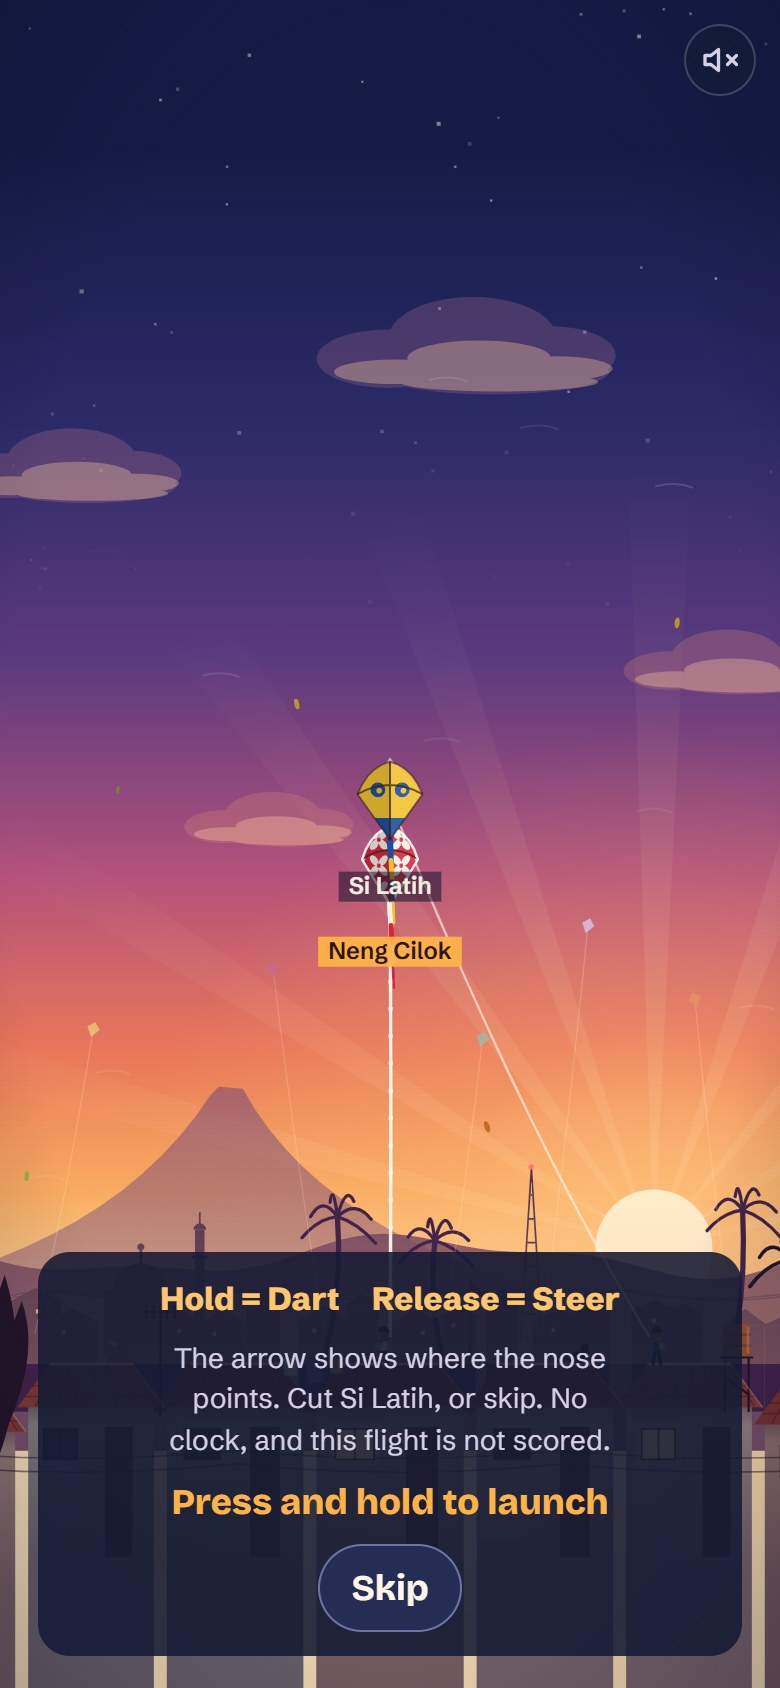
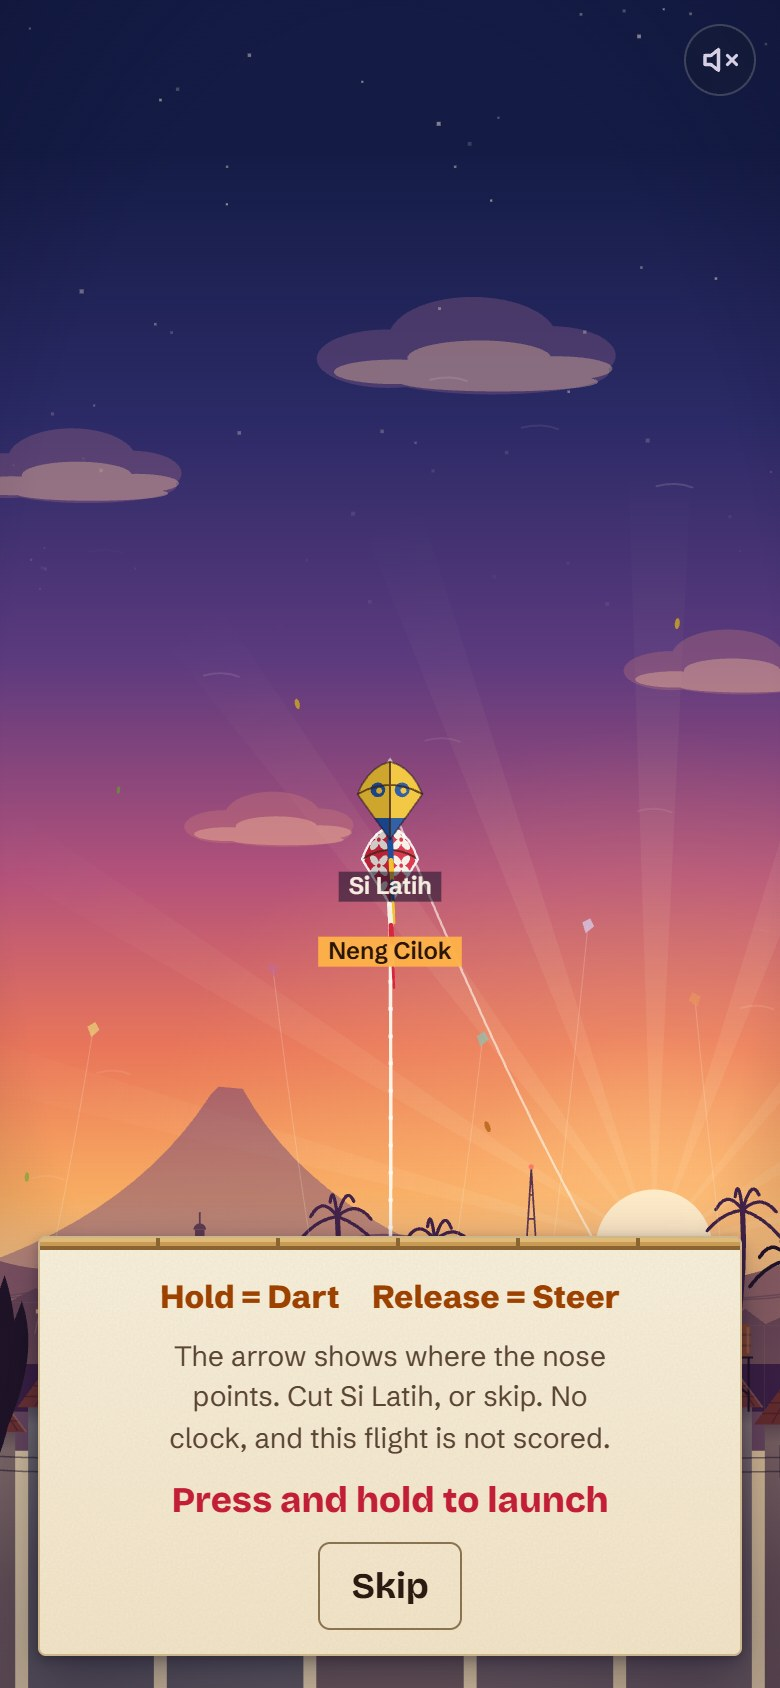
Retake the README screenshots in the kite-paper look.
Seven screenshots now show the paper panels, the contest and the kampung board as they are; the flight shot is unchanged because the flight screen did not change. The image descriptions match what is on screen, and Built for phones mentions the kite paper.

Changed region(s): [[0.0, 0.7085, 0.9846, 1.0]]

diff --git a/README.md b/README.md
@@ -5,11 +5,11 @@
 Fly a fighter kite with one finger. Cross a rival's string and saw through it with yours. One sky a day, the same for everyone, and yesterday's best flyer comes back as the boss.
 
 <p align="center">
-  <img src="docs/screenshots/01-feed.jpg" width="250" alt="The post in the feed: the day's sky plays by itself over the kampung roofs at dusk, a rival's kite bursts into paper scraps under the words PUTUS! +100, Raja Langit flies a pink star kite the kampung voted for, and below it the day, Raja Langit joko_benang, 6 flyers today, Kampung Hilir leads today, and a Play button">
+  <img src="docs/screenshots/01-feed.jpg" width="250" alt="The post in the feed: the day's sky plays by itself over the kampung roofs at dusk, with Pak RT, Mbak Sri, Si Kribo, ani_gelasan and Raja Langit joko_benang flying the pink star kite the kampung voted for, and below it Day 9, Raja Langit joko_benang, 5 flyers today, Kampung Hilir leads today, and a red Play button">
   &nbsp;
   <img src="docs/screenshots/04-flight.jpg" width="250" alt="A flight in progress: Time and String bars at the top with 400 points, kites over a volcano at sunset, and Raja Langit's kite torn apart above the roofs with the words RAJA! +300">
   &nbsp;
-  <img src="docs/screenshots/07-result.jpg" width="250" alt="The result card: Layangan putus bro!, cut by Si Kribo, 400 points, rank 5 with 2 of 3 scored flights left, +400 for Kampung Hilir in the lead today, +40 coins, Fly again and Share buttons, and the flight details and today's standings folded below">
+  <img src="docs/screenshots/07-result.jpg" width="250" alt="The result card on a sheet of kite paper: Nyangkut mas bro!, your kite caught on the roofs, 500 points, rank 6 today with 2 of 3 scored flights left, +500 for Kampung Hilir in the lead today, +50 coins, a red Fly again button beside Share, and the flight details and today's standings folded below">
 </p>
 <p align="center"><sub>The post in the feed · Cutting down Raja Langit · The result card</sub></p>
 
@@ -64,11 +64,11 @@ Your string is glass-coated (_benang gelasan_): it takes about twice as much rub
 ## Played together
 
 <p align="center">
-  <img src="docs/screenshots/03-ready.jpg" width="250" alt="The ready screen: the player Neng Cilok flying for Kampung Hilir with 140 coins and 2 of 3 scored flights left, the kampung board with Hilir 1600, Pesisir 1300 and Hulu 1100, Raja Langit joko_benang worth 300 flying u/wulan_kite's kite, voted in, five more kites folded into one line, and the time of day set to dusk">
+  <img src="docs/screenshots/03-ready.jpg" width="250" alt="The ready screen: one sheet of kite paper holding Neng Cilok flying for Hilir with 100 coins and 3 of 3 scored flights left, the kampung board with Hilir 3420 ahead of Pesisir 3390 and Hulu 2290, and Raja Langit joko_benang with 1200, worth 300, flying u/wulan_kite's kite, voted in, with five more kites folded into one line and the time of day set to dusk">
   &nbsp;
   <img src="docs/screenshots/08-contest.jpg" width="250" alt="The Raja's kite sheet: flying today is u/wulan_kite's pink star kite with 14 upvotes yesterday, an Enter my kite button that posts the kite as a comment from u/sekar_layang, and today's five kites ranked by upvotes from u/putu_pesisir with 18 to u/rara_senja with 16, each opening its comment to upvote">
   &nbsp;
-  <img src="docs/screenshots/05-kampung.jpg" width="250" alt="The kampung sheet: Kampung Hulu up the river, Kampung Hilir down the river (chosen) and Kampung Pesisir by the sea with today's points, and a preview of the flair u/sekar_layang Kampung Hilir with a Wear as my flair button">
+  <img src="docs/screenshots/05-kampung.jpg" width="250" alt="The kampung sheet: Kampung Hulu up the river with 2290, Kampung Hilir down the river with 3420, chosen and outlined in blue, and Kampung Pesisir by the sea with 3390, and a preview of the flair u/sekar_layang Kampung Hilir with a Wear as my flair button">
 </p>
 
 - **Three kampungs.** Pick **Hulu** (up the river), **Hilir** (down the river) or **Pesisir** (by the sea). Every scored flight adds its points to your kampung for the day, the kampung with the most points wins it, and the next day's post says who won. You can move to another kampung at any time; points already earned stay where they were earned.
@@ -103,7 +103,7 @@ Before a round you can also pick the time of day the sky is drawn in: morning, n
 
 ## Built for phones
 
-The game is drawn for a phone held upright and played with one thumb; a mouse or the Space bar work too. Strings, kites and the kampung are drawn by hand on a canvas, with a sound for the wind, the rubbing strings and the snap. The feed card plays at 30 frames a second and stops drawing while it is scrolled out of view, so it does not drain a phone in the feed. Motion is reduced for players who ask their phone for less.
+The game is drawn for a phone held upright and played with one thumb; a mouse or the Space bar work too. Every panel is a sheet of cream kite paper on a bamboo spar, written in dark ink, so it reads in bright daylight and looks like nothing else in the feed. Strings, kites and the kampung are drawn by hand on a canvas, with a sound for the wind, the rubbing strings and the snap. The feed card plays at 30 frames a second and stops drawing while it is scrolled out of view, so it does not drain a phone in the feed. Motion is reduced for players who ask their phone for less.
 
 ## For moderators
 
